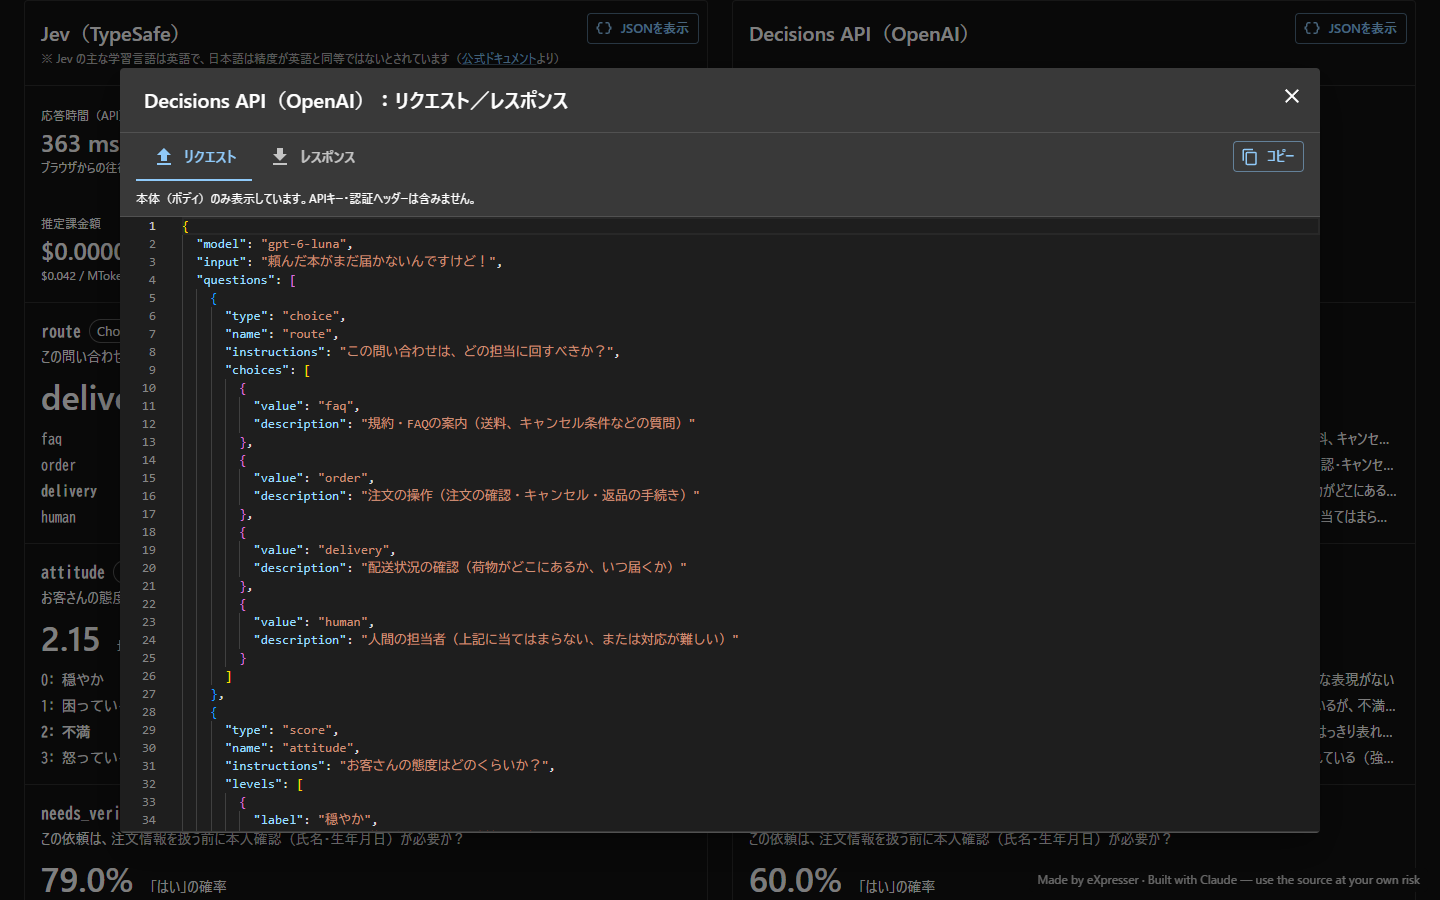
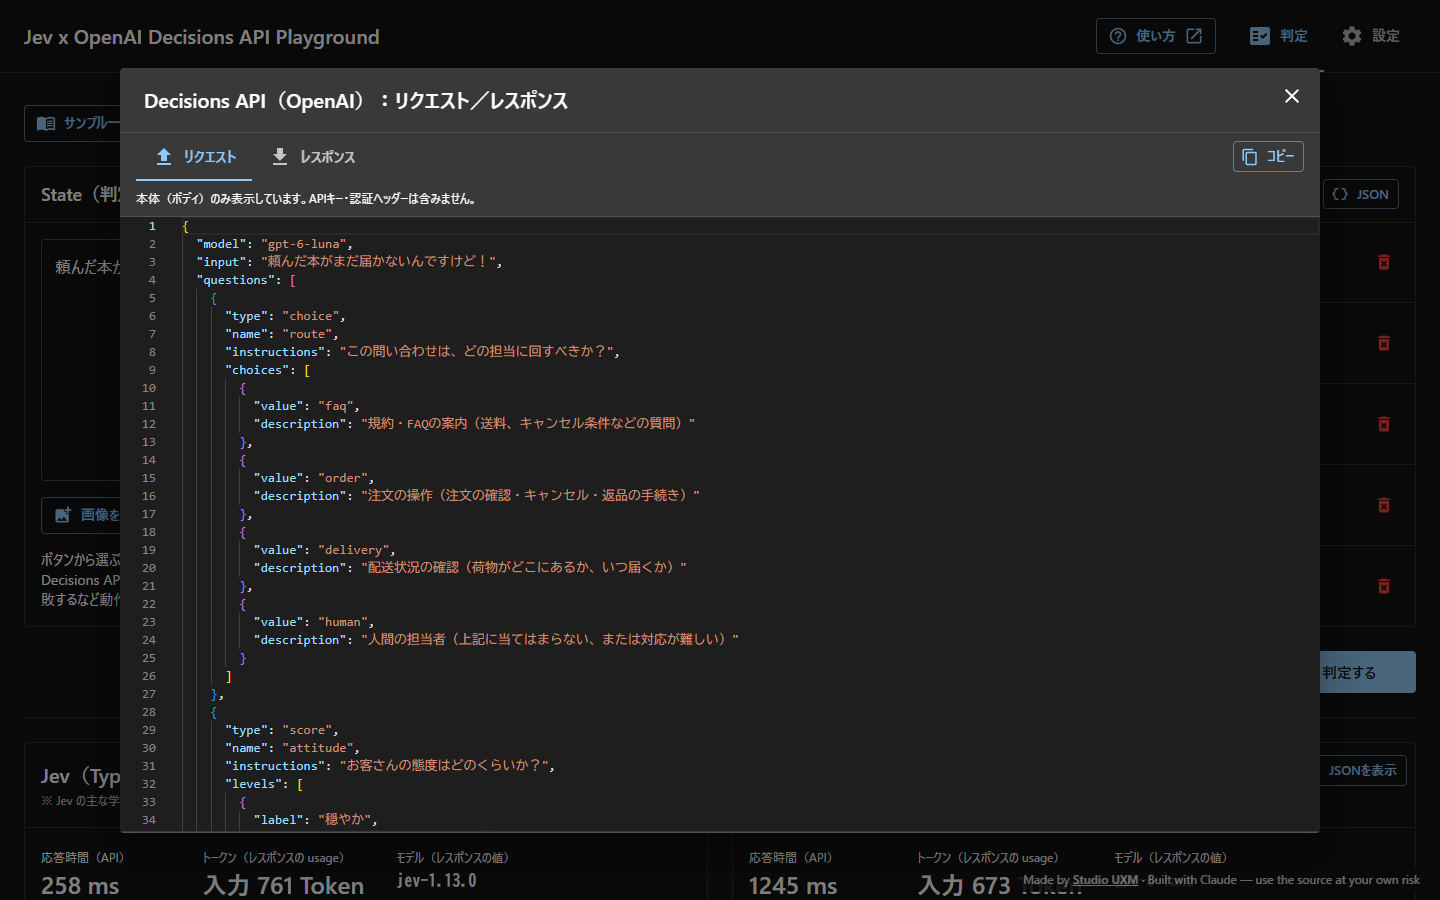
右下の作者表記を Studio UXM（https://uxm.jp、新しいタブ）にする
表記全体はクリックを通したまま、リンクの部分だけ押せるようにした。
表記が写っている使い方ページのスクリーンショットを撮り直した。

diff --git a/components/Demo.tsx b/components/Demo.tsx
@@ -255,10 +255,21 @@ export function Demo() {
           borderRadius: 1,
           bgcolor: 'background.paper',
           opacity: 0.85,
+          // 表記の上で下の画面を邪魔しないよう、クリックはリンクの部分だけ受け付ける
           pointerEvents: 'none',
         }}
       >
-        Made by eXpresser · Built with Claude — use the source at your own risk
+        Made by{' '}
+        <Link
+          href="https://uxm.jp"
+          target="_blank"
+          rel="noopener noreferrer"
+          color="inherit"
+          sx={{ pointerEvents: 'auto', fontWeight: 600 }}
+        >
+          Studio UXM
+        </Link>{' '}
+        · Built with Claude — use the source at your own risk
       </Typography>
     </Box>
   )
